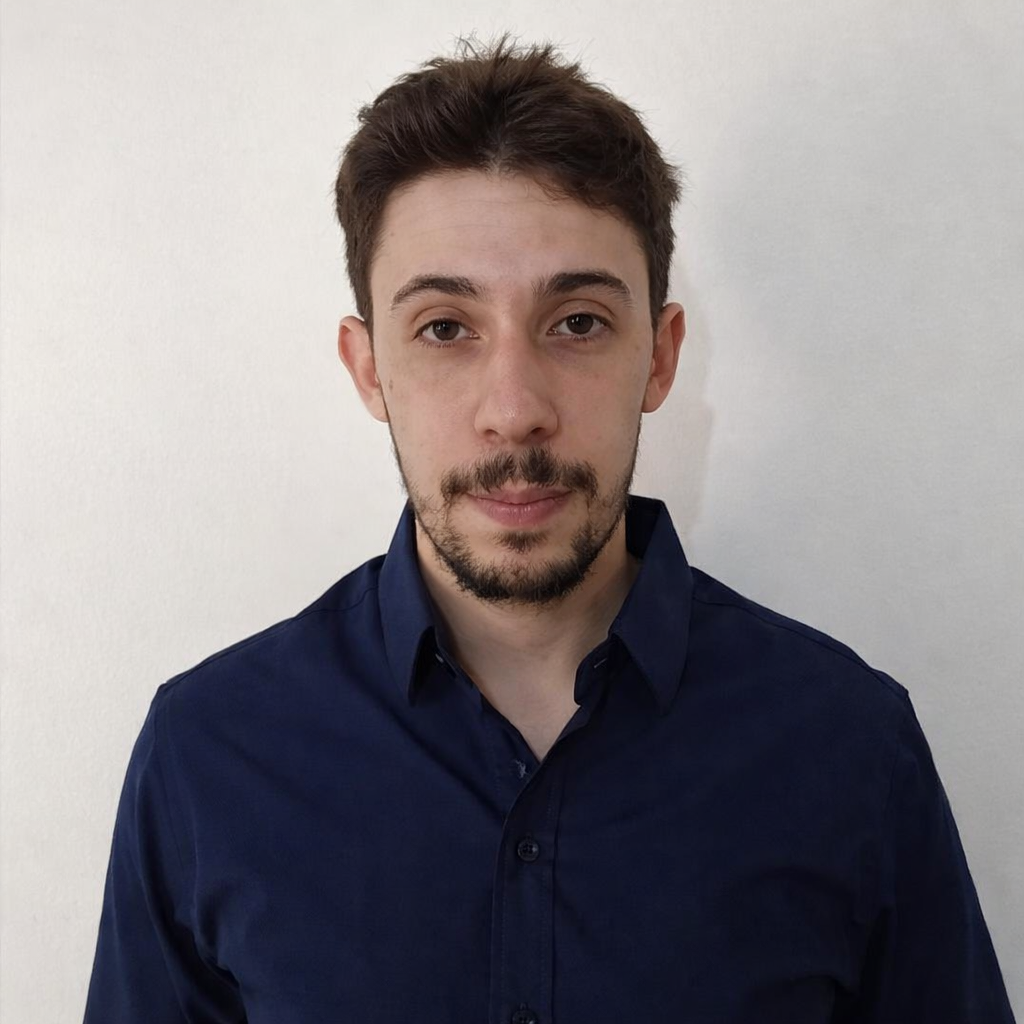
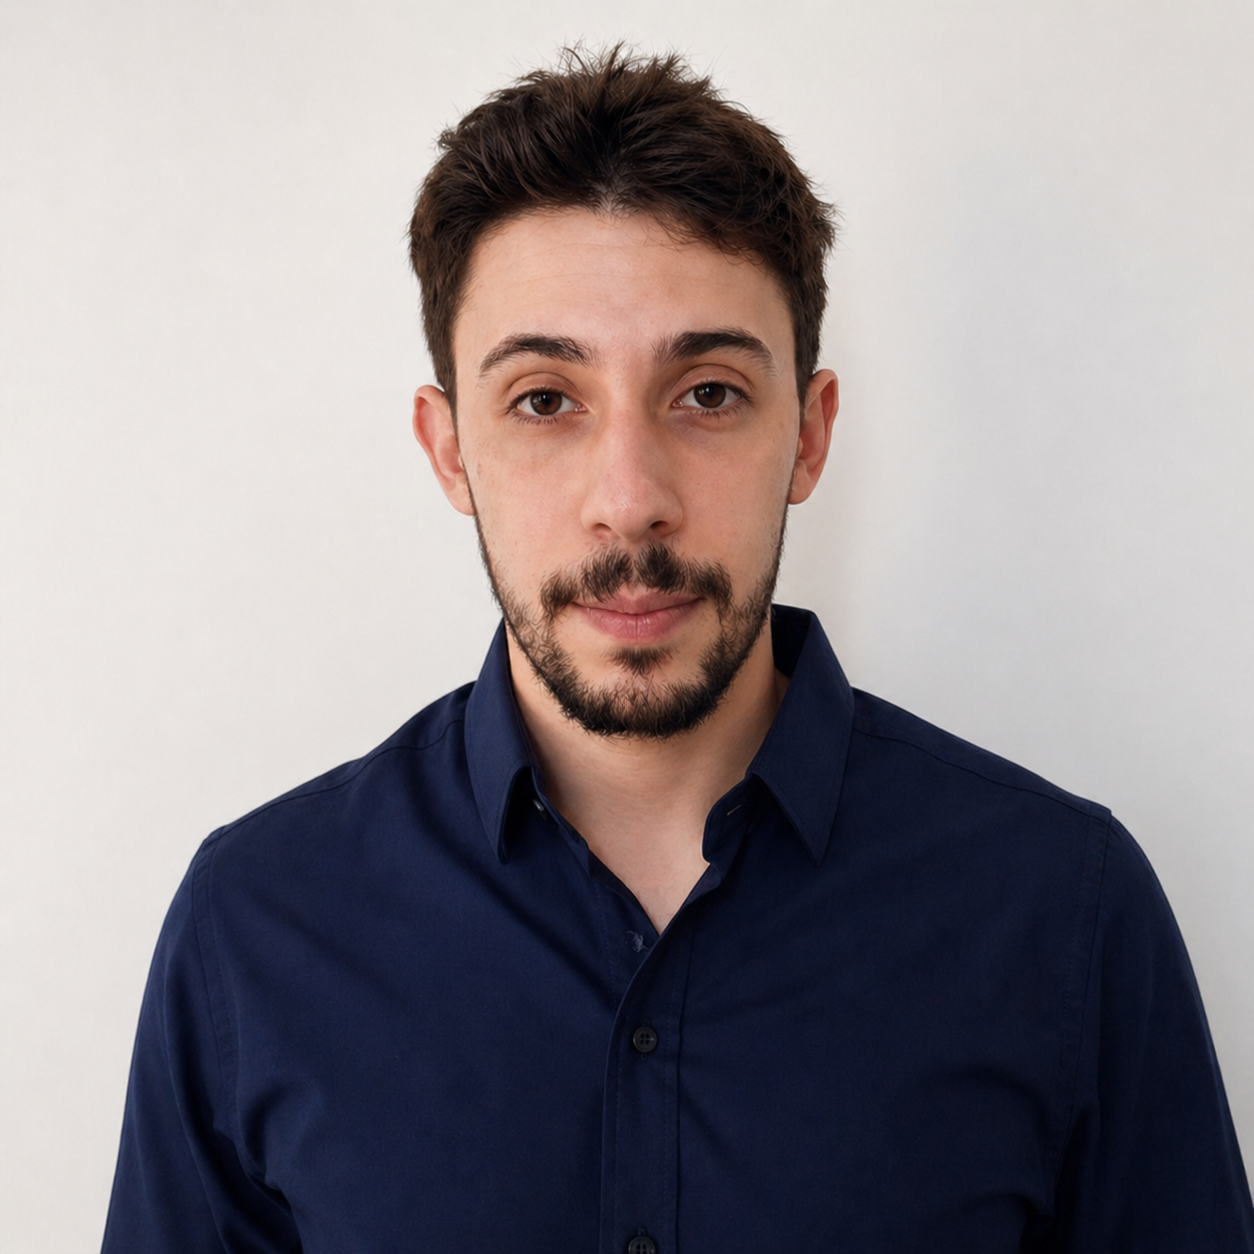
att

diff --git a/index.html b/index.html
@@ -1554,50 +1554,47 @@ footer {
       </div>
 
       <!-- SLIDE 2 -->
-      <div class="carousel-slide">
-        <div class="slide-visual">
-          <div class="slide-placeholder">02</div>
-          <div 
-            class="slide-badge"
-            data-pt="Open Source"
-            data-en="Open Source">
-            Open Source
-          </div>
-        </div>
+<div class="carousel-slide">
+  <div class="slide-visual">
+    <div class="slide-placeholder" style="background-image: url('projetos/projeto-2.png'); background-size: cover;width: 100%;height: 100%;"></div>
+    <div 
+      class="slide-badge"
+      data-pt="Open Source"
+      data-en="Open Source">
+      Open Source
+    </div>
+  </div>
 
-        <div class="slide-info">
-          <div class="slide-num">02</div>
+  <div class="slide-info">
+    <div class="slide-num">02</div>
 
-          <h3 
-            class="slide-title"
-            data-pt="Nome do Projeto Dois"
-            data-en="Project Two Name">
-            Nome do Projeto Dois
-          </h3>
+    <h3 
+      class="slide-title"
+      data-pt="RPG Manager"
+      data-en="RPG Manager">
+      RPG Manager
+    </h3>
 
-          <p 
-            class="slide-desc"
-            data-pt="Descreva aqui o que esse projeto faz, quais tecnologias foram utilizadas e por que você o construiu. Mencione resultados concretos se houver."
-            data-en="Describe what this project does, which technologies were used, and why you built it. Mention concrete results if applicable.">
-            Descreva aqui o que esse projeto faz, quais tecnologias foram utilizadas e por que você o construiu. Mencione resultados concretos se houver.
-          </p>
+    <p 
+      class="slide-desc"
+      data-pt="Aplicação offline para gerenciar personagens de RPG diretamente no navegador. Crie fichas completas com atributos, skills, magias e equipamentos — tudo salvo no localStorage, sem servidor, sem cadastro. Ideal para sessões de campanha sem acesso à internet."
+      data-en="Offline-first RPG character manager that runs entirely in the browser. Build full character sheets with attributes, skills, spells, and equipment — all persisted via localStorage with no backend or login required. Perfect for campaign sessions without internet access.">
+      Aplicação offline para gerenciar personagens de RPG diretamente no navegador. Crie fichas completas com atributos, skills, magias e equipamentos — tudo salvo no localStorage, sem servidor, sem cadastro. Ideal para sessões de campanha sem acesso à internet.
+    </p>
 
-          <div class="slide-tags">
-            <span class="slide-tag">Vue.js</span>
-            <span class="slide-tag">Python</span>
-            <span class="slide-tag">Docker</span>
-          </div>
+    <div class="slide-tags">
+      <span class="slide-tag">Angular</span>
+      <span class="slide-tag">TypeScript</span>
+      <span class="slide-tag">localStorage</span>
+    </div>
 
-          <div class="slide-links">
-            <a href="#" class="slide-link">
-              GitHub
-            </a>
-            <a href="#" class="slide-link">
-              Demo
-            </a>
-          </div>
-        </div>
-      </div>
+    <div class="slide-links">
+      <a href="https://github.com/Yesod-star/rpg-manager" class="slide-link">
+        GitHub
+      </a>
+    </div>
+  </div>
+</div>
 
       <!-- SLIDE 3 -->
       <div class="carousel-slide">
